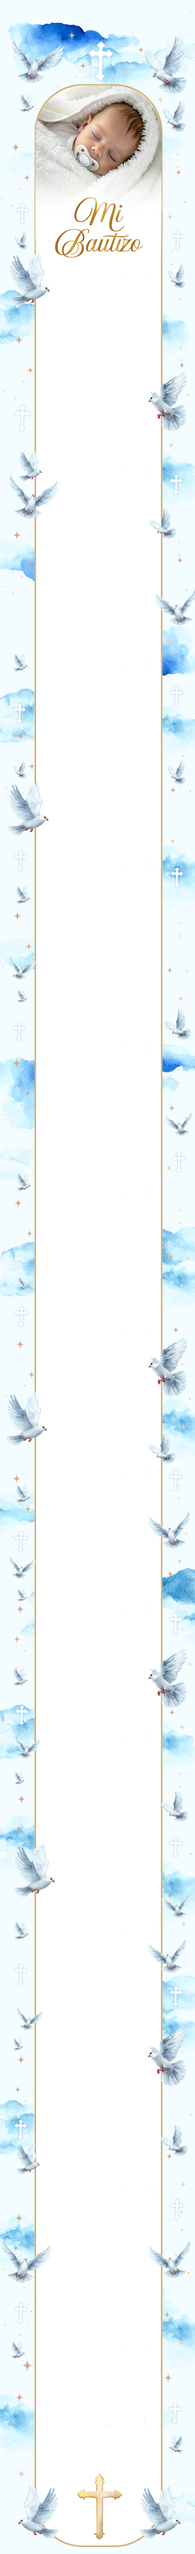
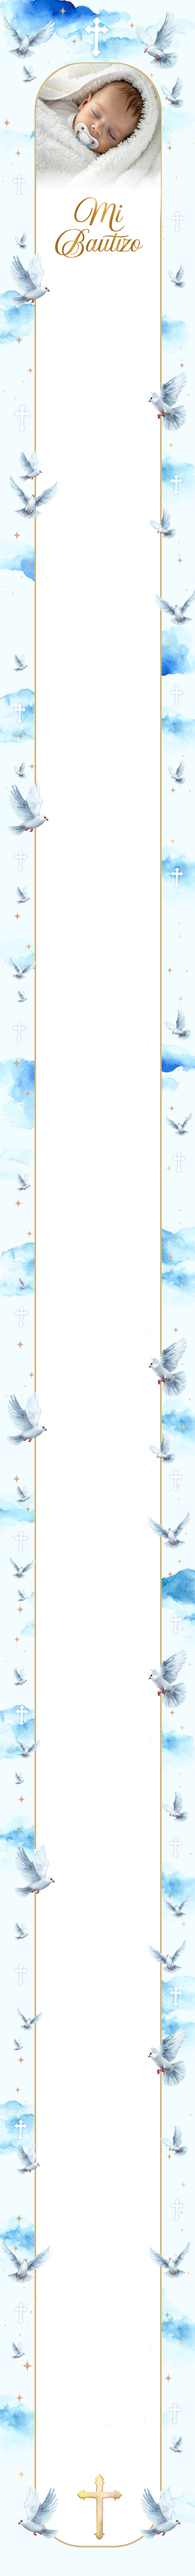
bendicion_cambio2

Changed region(s): [[0.0, 0.0, 1.0, 0.9974], [0.0, 0.1559, 0.3125, 0.9974], [0.4062, 0.9351, 0.625, 0.9974]]

diff --git a/demo_invitaciones/Bautizos/bendicion_celeste_nino/invitacion.html b/demo_invitaciones/Bautizos/bendicion_celeste_nino/invitacion.html
@@ -17,6 +17,9 @@
             font-family: 'Gabriola';
             src: url('fonts/gabriola Font Download.ttf') format('truetype');
         }
+		 * {
+            box-sizing: border-box;
+        }
 
         html, body {
             margin: 0;
@@ -35,11 +38,11 @@
         background-image: url('img/fondo.png'); /* Ruta de tu imagen */
 		background-position: top center;
         background-repeat: no-repeat; /* Evita que se repita */
-        background-size: 450px 5935px; /* Tamaño exacto */
+        background-size: 450px 6089px; /* Tamaño exacto */
         background-position: top center; /* Centrado en la parte superior */
         width: 100%; /* Ancho fijo */
 		max-width: 450px; /* Ancho máximo */
-        min-height: 5935px; /* Altura exacta */
+        min-height: 6089px; /* Altura exacta */
         margin: 0 auto;
         animation: slideIn 1.5s ease-out;
 	    position: relative;

diff --git a/demo_invitaciones/Bautizos/alas_De_fe_nino/invitacion.html b/demo_invitaciones/Bautizos/alas_De_fe_nino/invitacion.html
@@ -1024,7 +1024,8 @@ hemos preparado una pequeña mesa de regalos con opciones que nos hacen mucha il
 			
 			  <p class="parrafo">Gracias por compartir este<br> momento único con nuestra familia. <br>
 Te esperamos con los brazos abiertos.</p>
-			 <h1 class="final-title">¡Nos vemos pronto!</h1>
+			 <h1 class="final-title">¡Nos vemos<br>
+ pronto!</h1>
 
            
             <!-- Reproductor flotante -->
